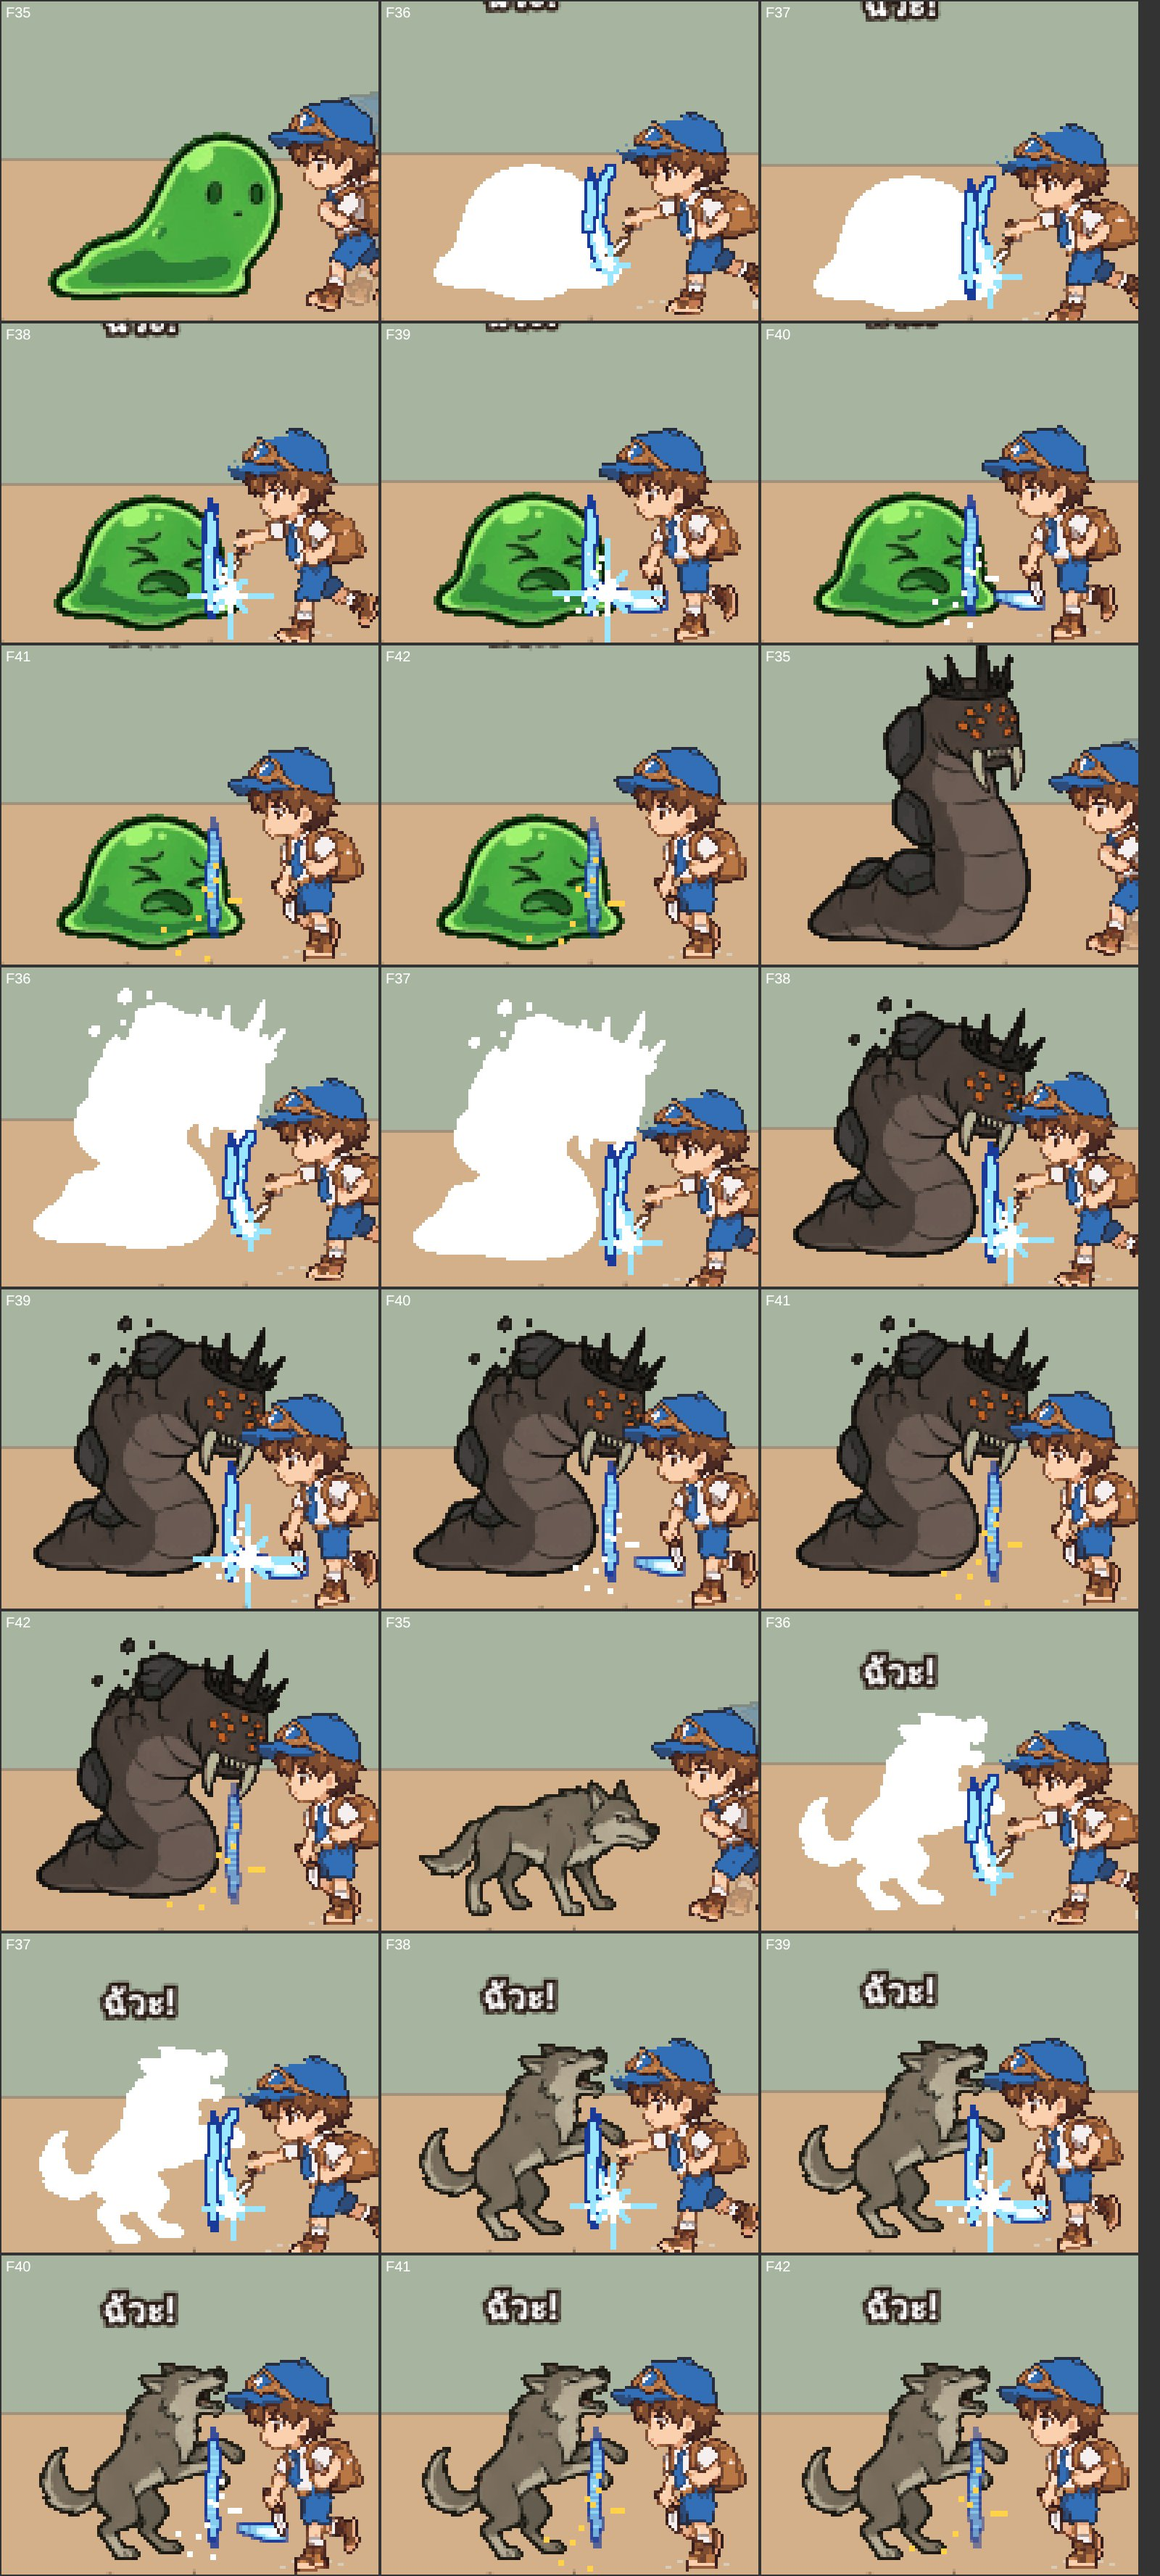
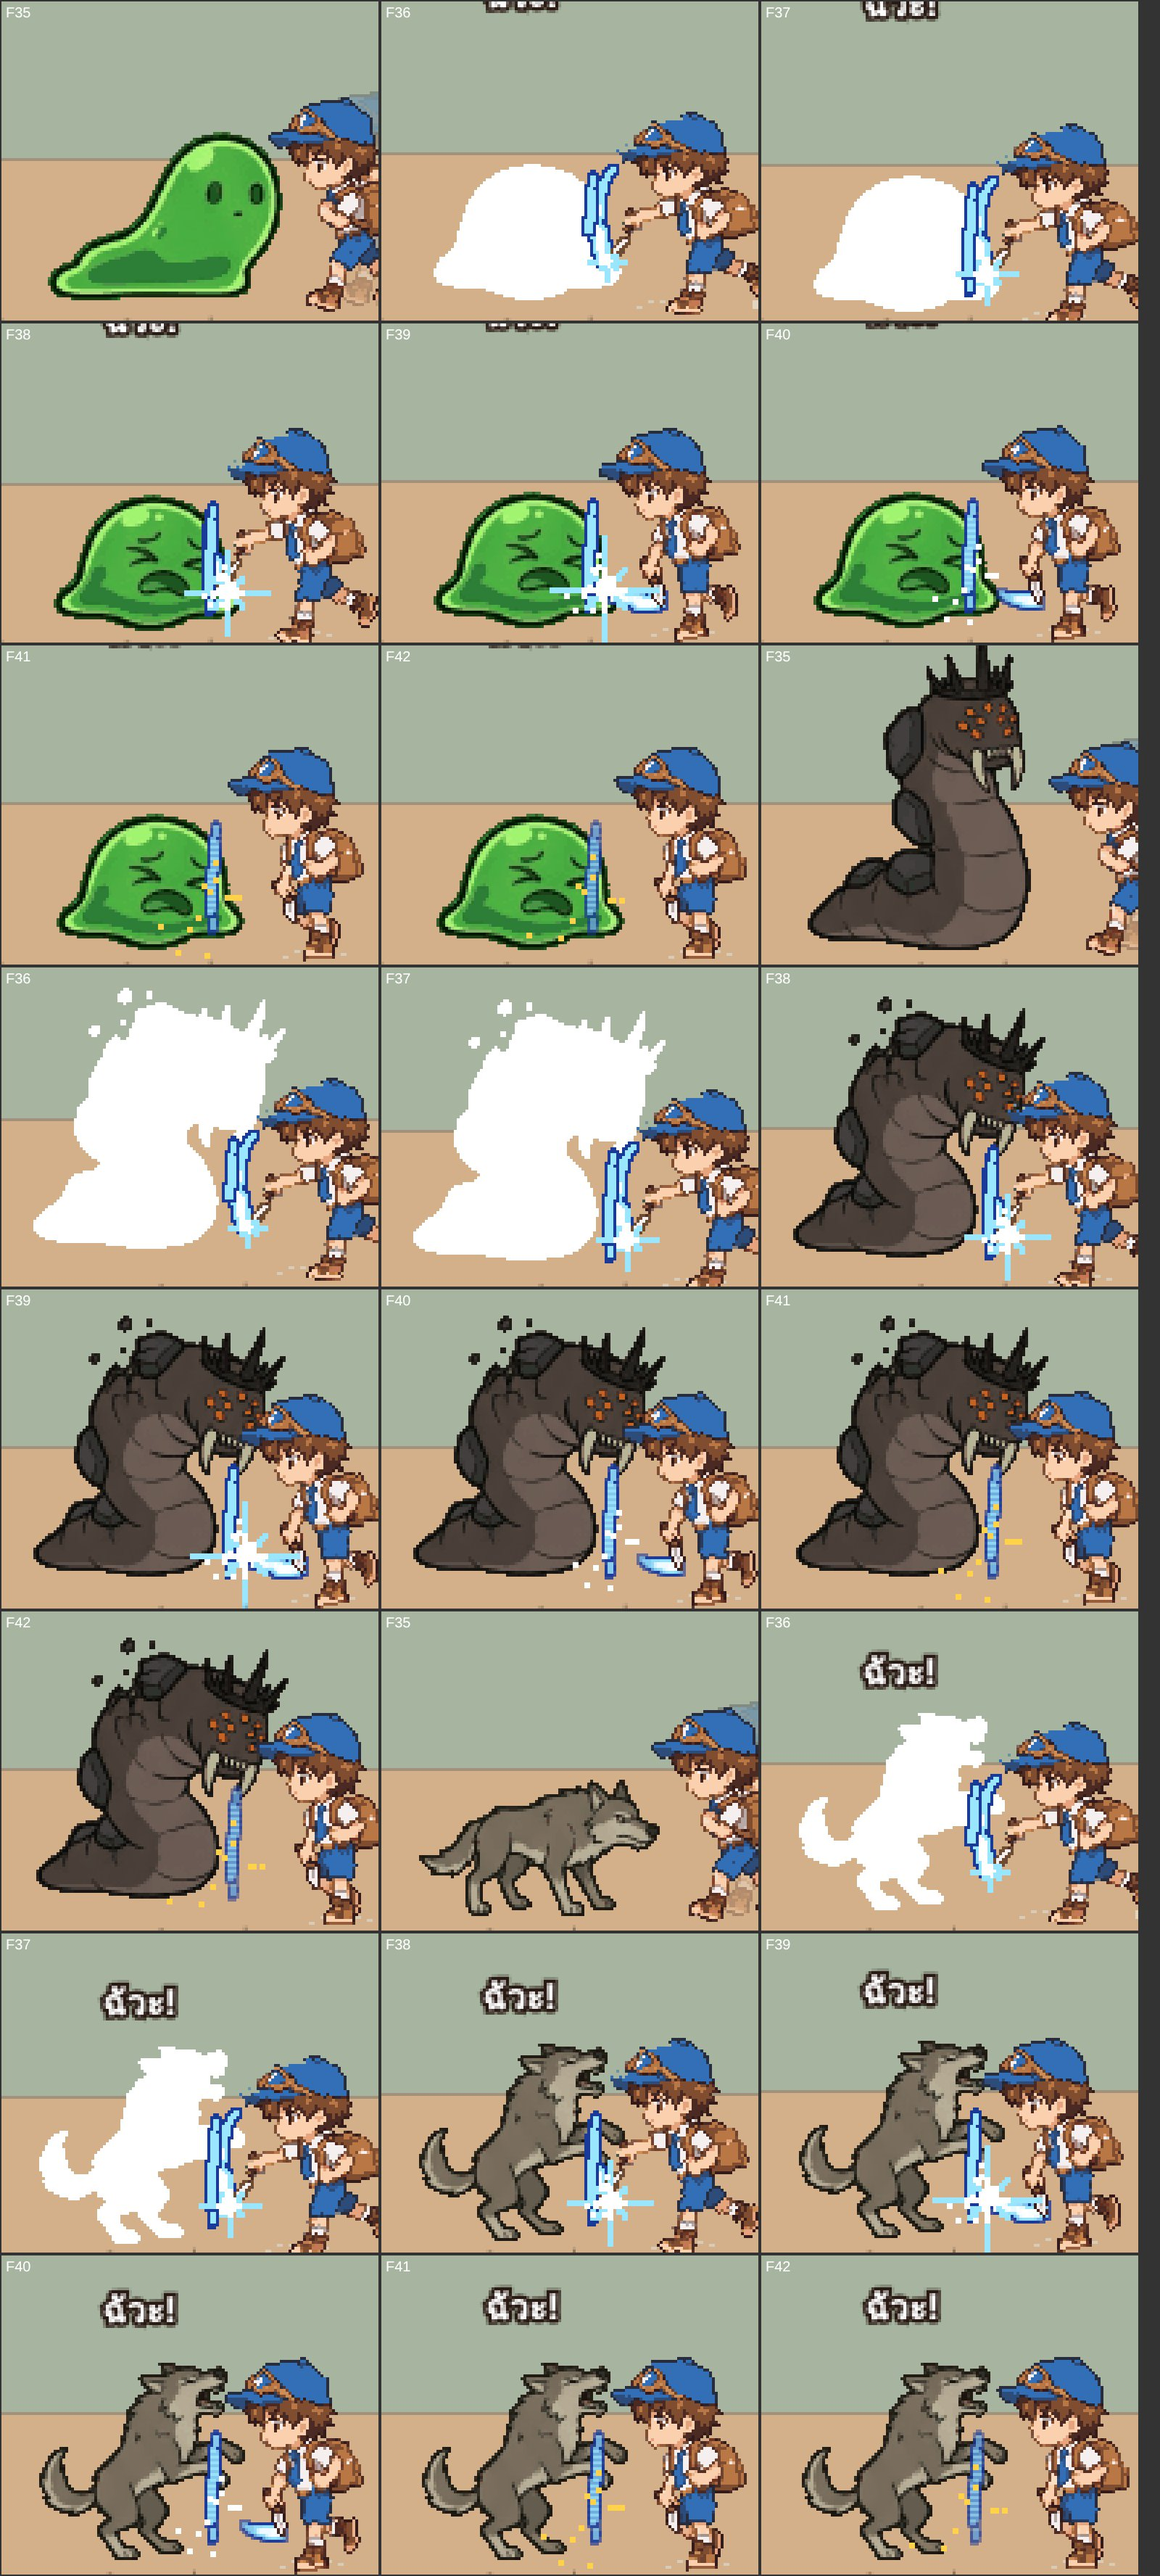
reborner: slash trail reads blade-tip path measured at build time
Claude-Session: https://claude.ai/code/session_01AyfRAxmDGBdG3zyR3QzGBg

diff --git a/reborner/tools/web/anim_test_build.py b/reborner/tools/web/anim_test_build.py
@@ -283,6 +283,26 @@ OLD_RION = re.compile(r'^(rion/|held/|rig/|cut/|spl/|skc/|vxs/|npc/|p64/rion_)')
 PX_EXTRA = {'dodge': 'dodge', 'watch': 'watch', 'roll': 'jump_roll', 'victory': 'victory'}   # ท่าแบบ Flow 14-2 ที่เกมยังไม่ใช้ → ผืนเดียวกับ rion_px (96x112 เท้าแถว 110)
 
 
+# ทางปลายอาวุธของท่าฟันในฉากต่อสู้ (รอยมีดตามปลายจริง · BLC_SWING ในเทมเพลต) — วัดจากภาพทุกครั้งที่สร้างหน้า ด้วย tools/sprites/blade_tip.py
+# clip: (จุดหมุน = ไหล่ขวา, เฟรมเริ่มเหวี่ยง = ง้างสุด, เฟรมสุดท้าย, ทิศ −1 = มุมลดลง = ฟันข้ามหัวลงหน้าเมื่อหันซ้าย)
+SWINGS = {'pls_atk_bl': ((62, 68), 4, 7, -1)}
+
+
+def swing_paths():
+	import importlib.util
+	spec = importlib.util.spec_from_file_location('blade_tip', os.path.join(ROOT, 'tools/sprites/blade_tip.py')); bt = importlib.util.module_from_spec(spec); spec.loader.exec_module(bt)
+	out = {}
+	for clip, (pivot, f0, f1, sign) in SWINGS.items():
+		paths = [os.path.join(SPR, 'pixellab_draft/px_set', '%s_%d.png' % (clip, i)) for i in range(f0, f1 + 1)]
+		if not all(os.path.isfile(p) for p in paths): continue
+		res = bt.swing(paths, pivot, sign)
+		miss = [f0 + i for i, r in enumerate(res) if r is None]
+		if miss: sys.exit('blade_tip: หาปลายอาวุธ %s เฟรม %s ไม่เจอ — ดูภาพด้วย --check แล้วแก้ค่าใน blade_tip.py ก่อน' % (clip, miss))
+		out[clip] = {'P': list(pivot), 'f0': f0, 'A': [round(r[1], 1) for r in res], 'R': [round(r[2], 1) for r in res], 'tip': [list(r[0]) for r in res]}
+		print('ทางปลายอาวุธ', clip, 'มุม', out[clip]['A'], 'รัศมี', out[clip]['R'])
+	return out
+
+
 def px_extra():
 	import importlib.util
 	spec = importlib.util.spec_from_file_location('rpg', os.path.join(ROOT, 'tools/sprites/rion_px_game.py')); g = importlib.util.module_from_spec(spec); spec.loader.exec_module(g)
@@ -373,6 +393,7 @@ def main(out_path):
 		'px_extra': {k: sum(1 for x in os.listdir(os.path.join(SPR, 'rion_flow_draft/main_px')) if re.fullmatch(v + r'_\d+\.png', x)) for k, v in PX_EXTRA.items()},
 		'astra_vfx': astra_vfx(),
 		'monsters_px': sum((json.load(open(p, encoding='utf-8'))['monsters'] for p in (os.path.join(SPR, 'monsters_px_draft/index.json'), os.path.join(SPR, 'pixellab_draft/monsters/px/index.json')) if os.path.isfile(p)), []),
+		'swing': swing_paths(),   # ทางปลายอาวุธ (blade_tip.py)
 		'rion_pack': rion_pack_clips(),   # ชุดท่าครบ (prompt pack) + PixelLab
 		# ต้นไม้ท่า 17 ท่า (ร่าง · tools/data/skill17_proposal.py + skill17_content.py) → ชื่อ/จำนวนครั้ง/เลือดไหล/ท่าทาง ของคลิปสายคม 17 ท่า (kwan 18 ต.ค. "ปรับชื่อและท่าทางให้ตรงกับรายละเอียดในต้นไม้ท่า")
 		'tree17': list(csv.DictReader(open(os.path.join(ROOT, 'docs/design/skill_trees_17.csv'), encoding='utf-8'))),

diff --git a/reborner/tools/sprites/blade_tip.py b/reborner/tools/sprites/blade_tip.py
@@ -58,6 +58,25 @@ def find_tip(path):
 	return best and best[:3]
 
 
+def swing(paths, pivot, sign=None):
+	"""ปลายใบทีละภาพ → [(ปลาย, มุม, รัศมี) หรือ None] · มุมรอบ pivot ต่อเนื่องจากภาพที่เจนก่อนหน้า
+	sign −1 = มุมลดลงตลอด · +1 = เพิ่มตลอด · None = หมุนทางสั้น"""
+	out, prev = [], None
+	for p in paths:
+		b = find_tip(p)
+		if not b: out.append(None); continue
+		(x, y) = b[0]; a = math.degrees(math.atan2(y - pivot[1], x - pivot[0]))
+		if prev is not None:
+			if sign is None:
+				while a > prev + 180: a -= 360
+				while a < prev - 180: a += 360
+			else:
+				while sign * (a - prev) < 0: a += 360 * sign
+				while sign * (a - prev) >= 360: a -= 360 * sign
+		prev = a; out.append(((x, y), a, math.hypot(x - pivot[0], y - pivot[1])))
+	return out
+
+
 def main():
 	args = sys.argv[1:]; pivot = check = sign = None
 	if '--pivot' in args: i = args.index('--pivot'); pivot = tuple(map(float, args[i + 1].split(','))); del args[i:i + 2]

diff --git a/reborner/CLAUDE.md b/reborner/CLAUDE.md
@@ -99,6 +99,9 @@ JRPG ทำคนเดียวตอนเย็น · Godot 4.7.1 · GDScript
     `--dir neg` = มุมลดลงตลอด (ฟันข้ามหัว · ไม่ใส่ = หมุนทางสั้น ผิดทางตอนข้ามหัว) · ตรวจกับ px_set ชุด bl 23 ภาพ (ฟัน/ยืน/วิ่ง/กระโดดถอย): ถูกทุกภาพ · ภาพ 2 มือบัง = "ไม่เห็น" ·
     ตรงกับที่วัดด้วยมือ ≤ 1 จุดทั้ง 7 เฟรม (มุม −14.0/−200.7/−237.4/−248.2 vs มือ −13.5/−202/−237.4/−246.3) · ภาพ `docs/art-bible/pixellab_test/blade_tip_check.png`
     ข้อจำกัด: ค่าตั้งจูนจากมีดเล่มเดียวในผืน 120 · ใบสี (เรือง/สนิม/ไม่ซีด) หาไม่เจอ · ใบใหญ่ (ดาบ/ขวาน) ต้องขยาย MAX_PTS · อาวุธใหม่ต้องดูภาพ --check ทุกครั้ง
+  ✅ **รอยมีดอ่านค่าจากตัววัดอัตโนมัติ (kwan เลือก "2" · Version 132)**: `SWINGS` ใน anim_test_build.py (คลิป → ไหล่ เฟรมง้างสุด เฟรมสุดท้าย ทิศ) → `swing_paths()` เรียก `blade_tip.swing()` ทุกครั้งที่สร้างหน้า → `DATA.swing` → `BLC_SWING` ในเทมเพลต (ไม่มีค่าพิมพ์มือแล้ว)
+    เฟรมไหนหาปลายไม่เจอ = สร้างหน้าไม่ผ่าน (`sys.exit`) ไม่เดาค่าแทน · อาวุธใหม่ = เพิ่มแถวใน SWINGS · ค่าที่ได้ bl0: มุม −14.0 −200.7 −237.4 −248.2 รัศมี 24.7 39.6 29.7 26.9
+    แก้ที่เจอตอนซูม 8 เท่า: เฟรมกระทบมีเส้นคู่ (แผลบนมอนขึ้นพร้อมรอยมีด แต่มอนกระเด็น −6 ตอนหยุดภาพ) → แผลเริ่ม d 3 · d ≥ 3 รอยเหลือแค่ทางตามแรงใต้จุดฟาด (ตัว Rion ตอนฟาดยุบ 1.05×0.93 ทำให้รอยกับแผลเยื้อง 2–4 จุด)
 **VFX จาก Astra (kwan 19 ต.ค.)**: คู่มือธีมส่งให้ Astra = `docs/art-bible/vfx/VFX_THEME_BRIEF.md` · ผล = หน้า muse.ai "Reborner Vfx Designs" (แคตตาล็อก 622 แบบ · ภาพจริงแค่ BK-1…BK-4 ชีต 8 เฟรม + wav · ที่เหลือเป็นสเปก · ตัวเลขบางส่วนแต่งเอง: สกิล 173 สถานะ 27 ท่ามอน 342 เวทย์ SP 50 ไม่มีในข้อมูลเกม)
   ตัวงานโหลดจาก `*.cf.metaaiusercontent.com` (kwan เปิดใน Allowed domains แล้ว) · ชีต+เสียงเก็บที่ `docs/art-bible/vfx/astra/`
   kwan เลือก "1" แบบผสม: `tools/sprites/astra_vfx_cut.py` → `assets/sprites/astra_vfx_draft/` (ลบเขียว · ลบกรอบดำใกล้ขอบช่อง · ล้างเขียวในควัน · ย่อ 96 · 24 สี) ·
